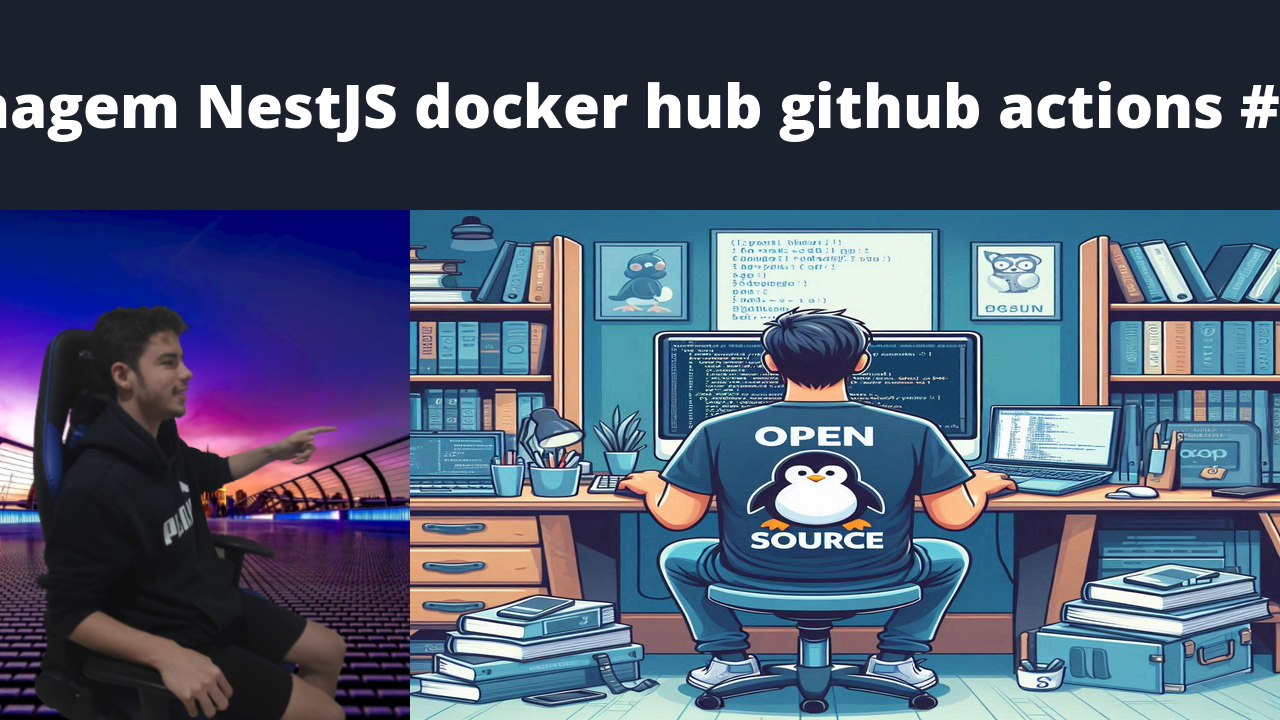
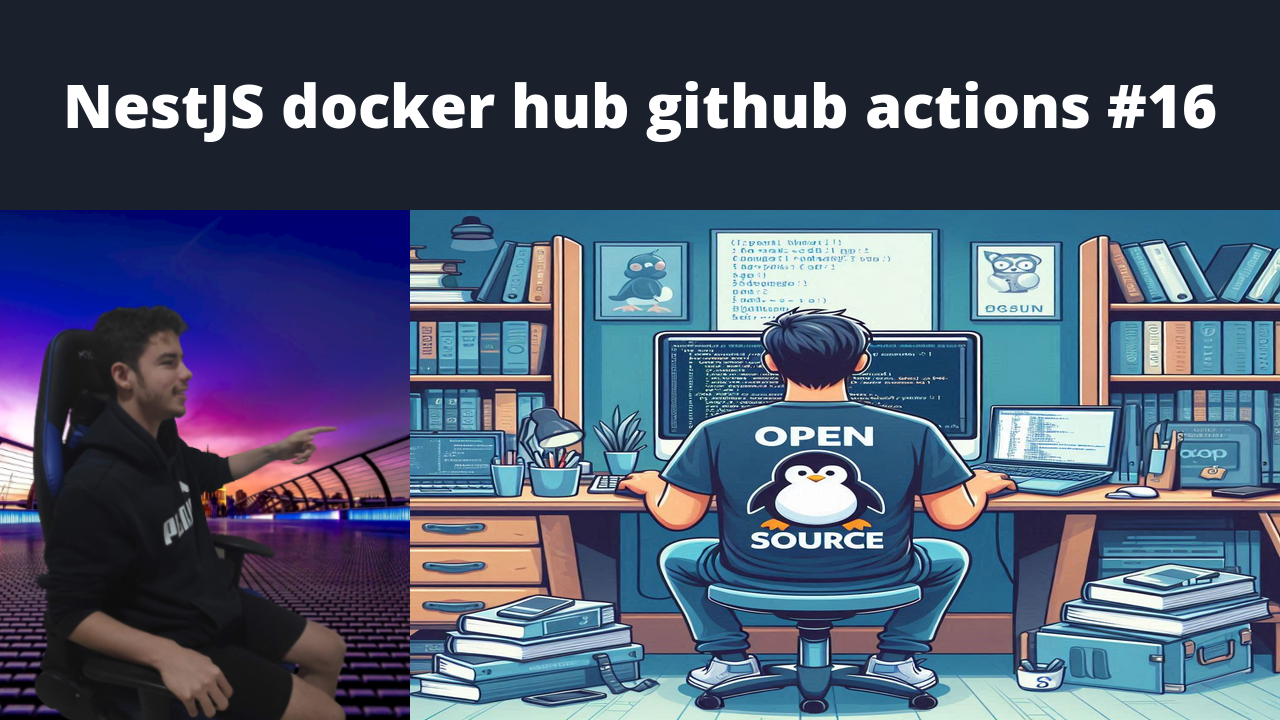
chore: add title chore: update tutoriais titles

Changed region(s): [[0.0, 0.0917, 1.0, 0.2139]]

diff --git a/out/titles/[Tutoriais].md b/out/titles/[Tutoriais].md
@@ -52,3 +52,5 @@
 [video](https://youtu.be/UyQarrE0NQE)
 ## Obte#preço crypto terminal [Tutoriais] 27
 [video](https://youtu.be/N2FyAqXU0kw)
+## Assisti#Star Wars pelo terminal [Tutoriais] 28
+[video](https://youtu.be/puceSHvtkXE)
